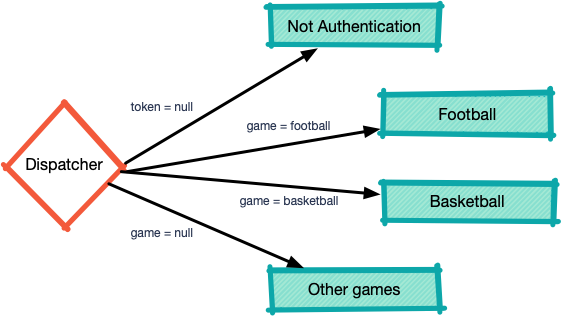
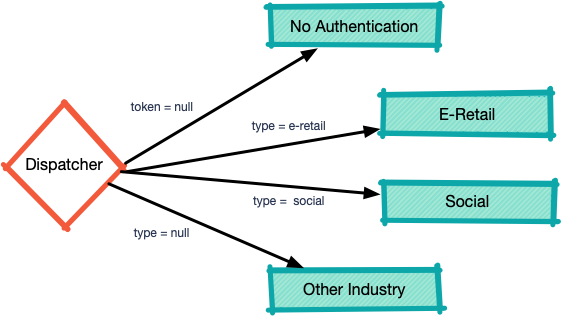
change some class name and upload dispatcher.png.

diff --git a/demo-microservice-app/src/main/java/microservice/ParameterController.java b/demo-microservice-app/src/main/java/microservice/ParameterController.java
@@ -18,17 +18,17 @@ public class ParameterController {
     }
 
     @RequestMapping(value = "/", headers = "token=1234567890")
-    public String selectByNoneParam() {
+    public String selectByOtherIndustry() {
         return "Parameter: none";
     }
 
-    @RequestMapping(value = "/", headers = "token=1234567890", params = "game=basketball")
-    public String selectByHeaderBasketball() {
+    @RequestMapping(value = "/", headers = "token=1234567890", params = "game=e-retail")
+    public String selectByERetail() {
         return "Parameter: Basketball";
     }
 
-    @RequestMapping(value = "/", headers = "token=1234567890", params = "game=football")
-    public String selectByHeaderFootball() {
+    @RequestMapping(value = "/", headers = "token=1234567890", params = "type=social")
+    public String selectBySocial() {
         return "Parameter: Football";
     }
 }
